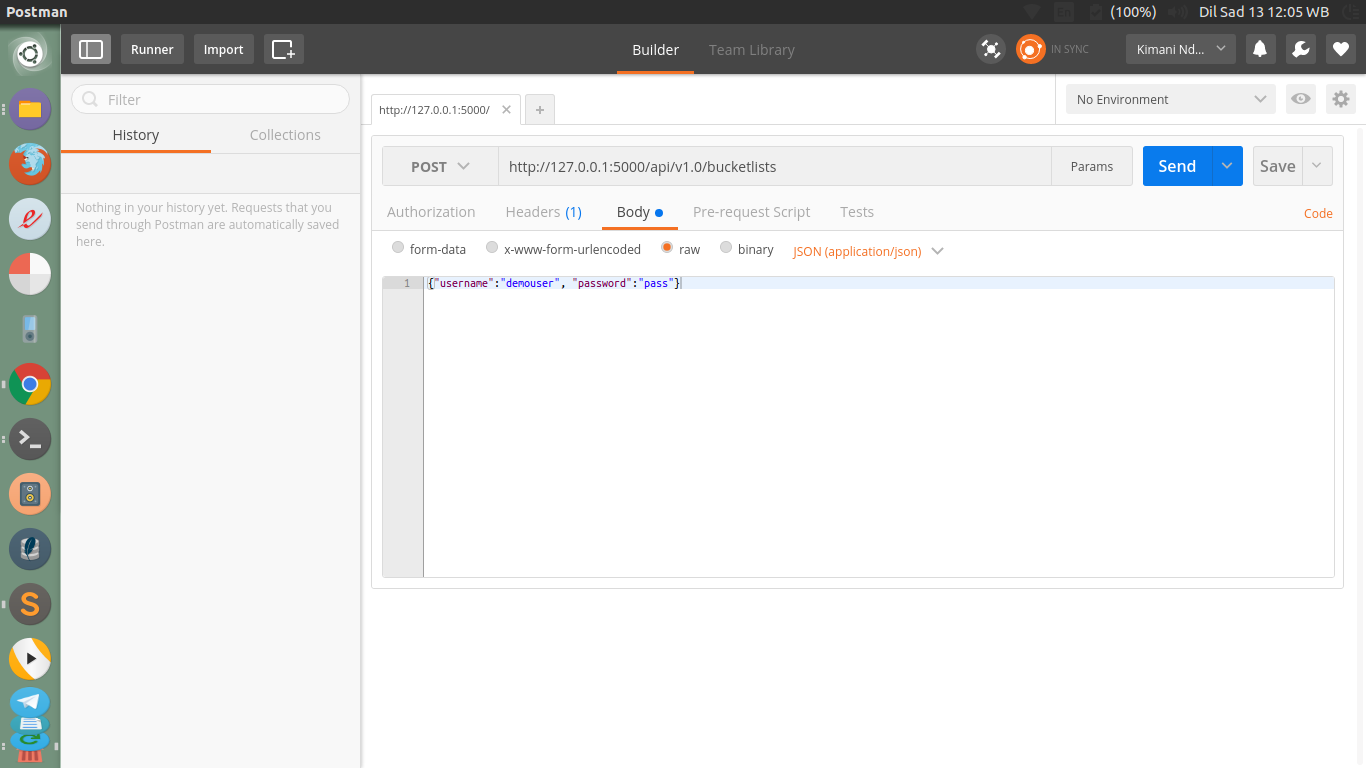
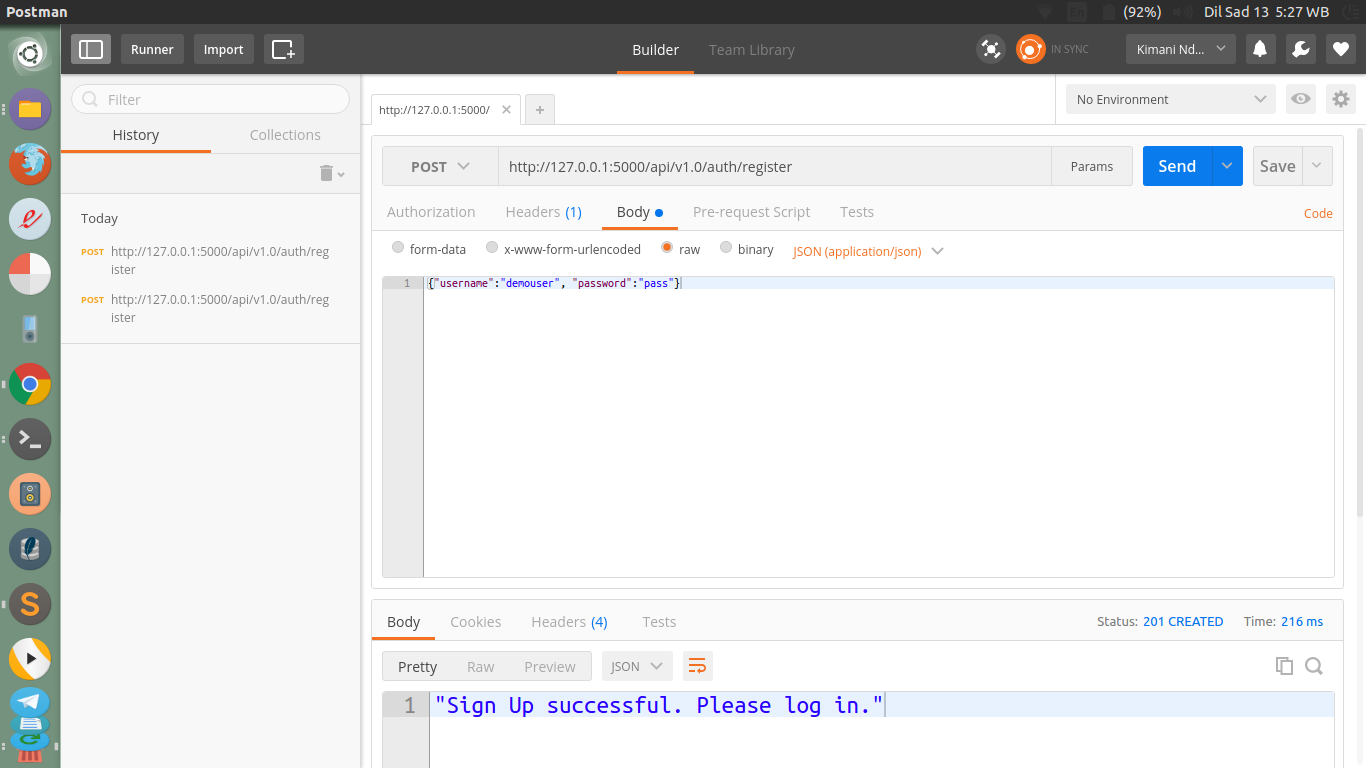
(Chore) Completes README.md file edit (Fix) Ensures edit on bucketlists error handling.

diff --git a/app/blister_api/actions.py b/app/blister_api/actions.py
@@ -123,6 +123,10 @@ def create_bucket_list_item(data, bucketlist_id):
     In case the bucket list does not belong to a user,
     an error message is returned.
     '''
+    bucketlists = BucketList.query.filter(
+        BucketList.user_id == g.user.id).all()
+    if not bucketlists:
+        abort(400, message='Please create a bucketlist before adding an item.')
     if not data:
         abort(400, message='Please add information for your bucketlist item.')
     if not data.get('title'):
@@ -203,11 +207,11 @@ def retrieve_all_bucketlists_items(bucketlist_id):
 
 def update_bucketlist(data, bucketlist_id):
     if not data:
-        abort(400, 'Please add information for your bucketlist.')
+        abort(400, message='Please add information for your bucketlist.')
     bucketlist = BucketList.query.filter_by(id=bucketlist_id,
                                             user_id=g.user.id).first()
     if not bucketlist:
-        abort(404, 'Bucket list not found.')
+        abort(404, message='Bucket list not found.')
     title = data.get('title', bucketlist.title)
     description = data.get('description', bucketlist.description)
     bucketlist.title = title
@@ -245,6 +249,3 @@ def delete_bucket_list_item(bucketlist_id=None, item_id=None):
                                           bucketlist_id=bucketlist_id).first_or_404()
     delete(item)
     return ''
-
-# =================================================
-# SEARCH bucket list and bucket list items

diff --git a/app/blister_api/endpoints/bucket_lists.py b/app/blister_api/endpoints/bucket_lists.py
@@ -49,9 +49,9 @@ class BucketListCollection(Resource):
         bucketlists = retrieve_all_bucketlists()
         if not bucketlists:
             abort(404, message='You have no bucketlists at the moment.')
-        query = request.args.get('query')
-        if query:
-            bucketlists = search_bucket_list(query)
+        q = request.args.get('q')
+        if q:
+            bucketlists = search_bucket_list(q)
             if not bucketlists:
                 abort(404, message='That bucketlist does not exist.')
             else:

diff --git a/README.md b/README.md
@@ -102,7 +102,7 @@ As highlighted earlier, install the **Google Chrome** extension [Postman](https:
 
 Once your up and running with postman, the following steps should get your acquainted with how blister works:
 
-1. Register a user.
+- **Register a user.**
 
 Copy the localhost link plus the **api/v1.0/auth/register** appended to the tail end of the link. i.e:
 **http://12.0.0.1:5000/api/v1.0/auth/register**
@@ -117,4 +117,174 @@ Copy the localhost link plus the **api/v1.0/auth/register** appended to the tail
 
 ![Demo Image](/docs/img/1.png?raw=true)
 
+A successful registeration should return the message:
 
+```Sign Up successful. Please log in.```
+
+- **Login a user.**
+
+This time the link changes to:
+**http://12.0.0.1:5000/api/v1.0/auth/login**
+
+- Ensure that the method is a POST request also and log in with the same credentials used to sign up.
+
+```{"username":"demouser", "password":"pass"}```
+
+![Demo Image](/docs/img/2.png?raw=true)
+
+A successful login should return a token such as above, e.g :
+
+```
+{
+  "token": "eyJhbGciOiJIUzI1NiIsImV4cCI6MTQ3OTA1MDkyOCwiaWF0IjoxNDc5MDQ3MzI4fQ.eyJpZCI6NX0.I7XMV4jKhgczmSil9MwFpogyeDxlFvYc6ObFZTKsLZg"
+}
+```
+Copy only the token as it will be used during the next step.
+
+- **Create a bucketlist**
+
+This project utilizes **Token Based Authentication** to restrict access to certain resources. Absence
+of this token with the methods from here will result in a **401: Unauthorized Access** error.
+
+To create a bucketlist, make a **POST** request to the following URI:
+**http://12.0.0.1:5000/api/v1.0/bucketlists**.
+
+In the headers tab ensure the following:
+
+>Content-Type ----> application/json
+
+>Authorization ---> **Bearer** eyJhbGciOiJIUzI1NiIsImV4cCI6MTQ3OTA1MDkyOCwiaWF0IjoxNDc5MDQ3MzI4fQ.eyJpZCI6NX0.I7XMV4jKhgczmSil9MwFpogyeDxlFvYc6ObFZTKsLZg
+
+Ensure the ***Bearer*** prefix comes before the token earlier copied.
+Give your Bucketlist a title and description and hit send, e.g:
+
+```
+{
+"title": "Demo bucket list title",
+"description":"This is a demo bucket list"
+}
+```
+
+A successful request should be as follows:
+
+![Demo Image](/docs/img/3.png?raw=true)
+
+To view it you can make a **GET** request to the URI for bucketlists plus the ID of the bucketlists appended:
+
+**http://12.0.0.1:5000/api/v1.0/bucketlists/1**.
+
+
+- **Update or Delete a bucketlist**
+
+To **UPDATE** a bucketlist, navigate to the full link as stated above i.e:
+
+**http://12.0.0.1:5000/api/v1.0/bucketlists/1** with the method for the URL as **PUT.**
+
+In the body tab, provide your information as follows:
+
+```
+{
+"description":"This is a demo update for my earlier bucket list"
+}
+```
+A successful update should be as follows:
+
+![Demo Image](/docs/img/4.png?raw=true)
+
+To **DELETE** a bucketlist, navigate to the full link as stated above i.e:
+
+**http://12.0.0.1:5000/api/v1.0/bucketlists/1** with the method for the URL as **DELETE**.
+
+A successful request should return a HTTP 204 status code as follows:
+
+![Demo Image](/docs/img/5.png?raw=true)
+
+- **Creating a bucket list item**
+
+To create a bucketlist item, make sure you have a bucketlist and navigate to the following url:
+
+**http://12.0.0.1:5000/api/v1.0/bucketlists/1/items** as a **POST** request.
+
+>1 here represents the ID of the bucketlist you want to add items to.
+
+Add your content:
+
+```
+{
+"title": "Demo bucket list item title",
+"description":"This is a demo bucket list item title"
+}
+```
+A successful POST reqeuest should return the following:
+
+![Demo Image](/docs/img/6.png?raw=true)
+
+Make a **GET** request to view the item at the following URI:
+
+**http://12.0.0.1:5000/api/v1.0/bucketlists/1/items/1**
+
+- **Updating or deleting a bucket list item**
+
+The format takes the same approach as the bucketlist update or delete with the only difference being the URI:
+
+**http://12.0.0.1:5000/api/v1.0/bucketlists/1/items/1**
+
+- **Paginantion and searching bucket lists**
+
+Blister also allows you to paginate bucketlists by adding the **limit** parameter to the URI as follows:
+
+**http://12.0.0.1:5000/api/v1.0/bucketlists?limit=1**
+
+![Demo Image](/docs/img/7.png?raw=true)
+
+Searching is also possible using the **q** parameter as follows:
+
+**http://12.0.0.1:5000/api/v1.0/bucketlists?q=bucket 1**
+
+![Demo Image](/docs/img/8.png?raw=true)
+
+
+# TESTS.
+
+Blister is configured using **Tox**. Thus use the command:
+
+```
+tox
+```
+will successfully run the tests.
+
+Alternatively, the following nosetests command should also suffice:
+
+```nosetests --with-coverage --cover-package=app```
+
+## Credits
+
+1. [Kimani Ndegwa](https://github.com/andela-kndegwa)
+
+2. [Abdulmalik Abdulwahab.](https://github.com/andela-aabdulwahab)
+
+3. [Chukwuerika Dike](https://github.com/andela-cdike)
+
+## License
+
+### The MIT License (MIT)
+
+Copyright (c) 2016 [Kimani Ndegwa](https://www.kimanindegwa.co.ke).
+
+> Permission is hereby granted, free of charge, to any person obtaining a copy
+> of this software and associated documentation files (the "Software"), to deal
+> in the Software without restriction, including without limitation the rights
+> to use, copy, modify, merge, publish, distribute, sublicense, and/or sell
+> copies of the Software, and to permit persons to whom the Software is
+> furnished to do so, subject to the following conditions:
+>
+> The above copyright notice and this permission notice shall be included in
+> all copies or substantial portions of the Software.
+>
+> THE SOFTWARE IS PROVIDED "AS IS", WITHOUT WARRANTY OF ANY KIND, EXPRESS OR
+> IMPLIED, INCLUDING BUT NOT LIMITED TO THE WARRANTIES OF MERCHANTABILITY,
+> FITNESS FOR A PARTICULAR PURPOSE AND NONINFRINGEMENT. IN NO EVENT SHALL THE
+> AUTHORS OR COPYRIGHT HOLDERS BE LIABLE FOR ANY CLAIM, DAMAGES OR OTHER
+> LIABILITY, WHETHER IN AN ACTION OF CONTRACT, TORT OR OTHERWISE, ARISING FROM,
+> OUT OF OR IN CONNECTION WITH THE SOFTWARE OR THE USE OR OTHER DEALINGS IN
+> THE SOFTWARE.
